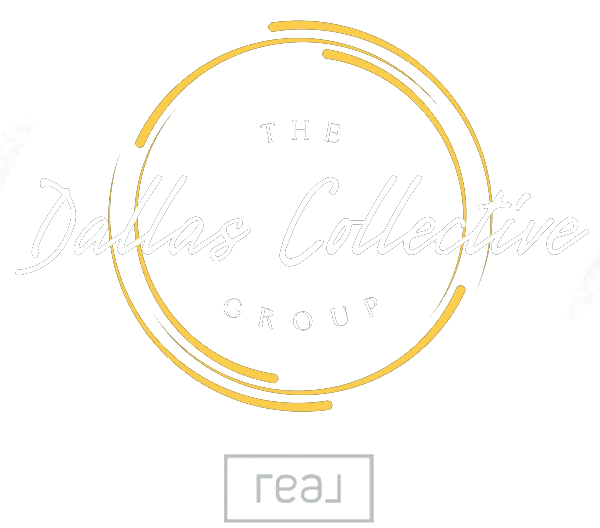
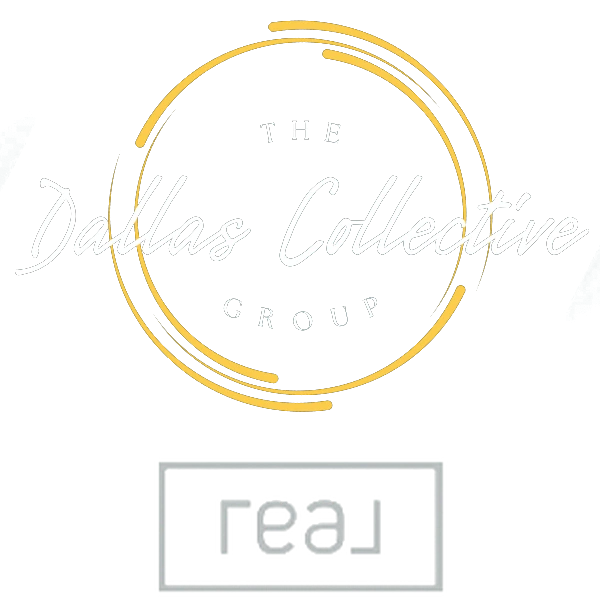
Larger Real mark in the lockup, DCG share card and page title
Claude-Session: https://claude.ai/code/session_013x2a3bzizxGvR6Ad51gCyd

diff --git a/index.html b/index.html
@@ -3,7 +3,7 @@
 <head>
     <meta charset="UTF-8">
     <meta name="viewport" content="width=device-width, initial-scale=1.0">
-    <title>ChloeIQ - Discover Your Home StyleDNA</title>
+    <title>Discover Your Home StyleDNA | Dallas Collective Group</title>
     <link rel="preload" href="/fonts/montserrat-latin-600-normal.woff2" as="font" type="font/woff2" crossorigin>
     <link rel="preload" href="/fonts/montserrat-latin-600-italic.woff2" as="font" type="font/woff2" crossorigin>
     <script>window.va = window.va || function () { (window.vaq = window.vaq || []).push(arguments); };</script>
@@ -1260,17 +1260,17 @@
     <meta property="og:type" content="website">
     <meta property="og:url" content="https://homestyledna.vercel.app/">
     <meta property="og:title" content="Discover Your Home StyleDNA">
-    <meta property="og:description" content="Every home has a personality. So do you. Take the 60-second quiz from ChloeIQ to find your StyleDNA archetype.">
-    <meta property="og:site_name" content="ChloeIQ StyleDNA">
-    <meta property="og:image" content="https://homestyledna.vercel.app/share-card.png">
+    <meta property="og:description" content="Every home has a personality. So do you. Take the free 60-second quiz from Josh Waters, Dallas Collective Group, to find your StyleDNA.">
+    <meta property="og:site_name" content="Home StyleDNA">
+    <meta property="og:image" content="https://homestyledna.vercel.app/share-card.png?v=2">
     <meta property="og:image:width" content="1200">
     <meta property="og:image:height" content="630">
 
     <!-- Twitter Card -->
     <meta name="twitter:card" content="summary_large_image">
     <meta name="twitter:title" content="Discover Your Home StyleDNA">
-    <meta name="twitter:description" content="Every home has a personality. So do you. Take the 60-second quiz from ChloeIQ.">
-    <meta name="twitter:image" content="https://homestyledna.vercel.app/share-card.png">
+    <meta name="twitter:description" content="Every home has a personality. So do you. Take the free 60-second quiz.">
+    <meta name="twitter:image" content="https://homestyledna.vercel.app/share-card.png?v=2">
 
     <!-- Theme color for mobile browser chrome -->
     <meta name="theme-color" content="#030C0D">
@@ -1280,7 +1280,7 @@
         <!-- WELCOME SCREEN -->
         <div class="screen welcome-screen active" id="welcomeScreen">
             <div class="welcome-content">
-                <img class="welcome-lockup" src="/brand/dcg-lockup.webp" alt="The Dallas Collective Group, brokered by Real" width="600" height="528">
+                <img class="welcome-lockup" src="/brand/dcg-lockup.webp" alt="The Dallas Collective Group, brokered by Real" width="600" height="606">
                 <div class="welcome-kicker"><i></i><span>StyleDNA</span><i></i></div>
                 <h1 class="welcome-headline">What's Your Home Style?</h1>
                 <p class="welcome-subheading">Every home has a personality. So do you. Swipe through twelve rooms and find out yours.</p>
@@ -1559,7 +1559,7 @@
                 </div>
 
                 <div class="contact-block">
-                    <img class="contact-lockup" src="/brand/dcg-lockup.webp" alt="The Dallas Collective Group, brokered by Real" width="600" height="528" loading="lazy">
+                    <img class="contact-lockup" src="/brand/dcg-lockup.webp" alt="The Dallas Collective Group, brokered by Real" width="600" height="606" loading="lazy">
                     <p class="contact-lead">Want a second set of eyes on homes that fit your style?</p>
                     <p class="contact-name">Josh Waters</p>
                     <p class="contact-role">REALTOR&reg; &middot; Real Estate Advisor</p>
